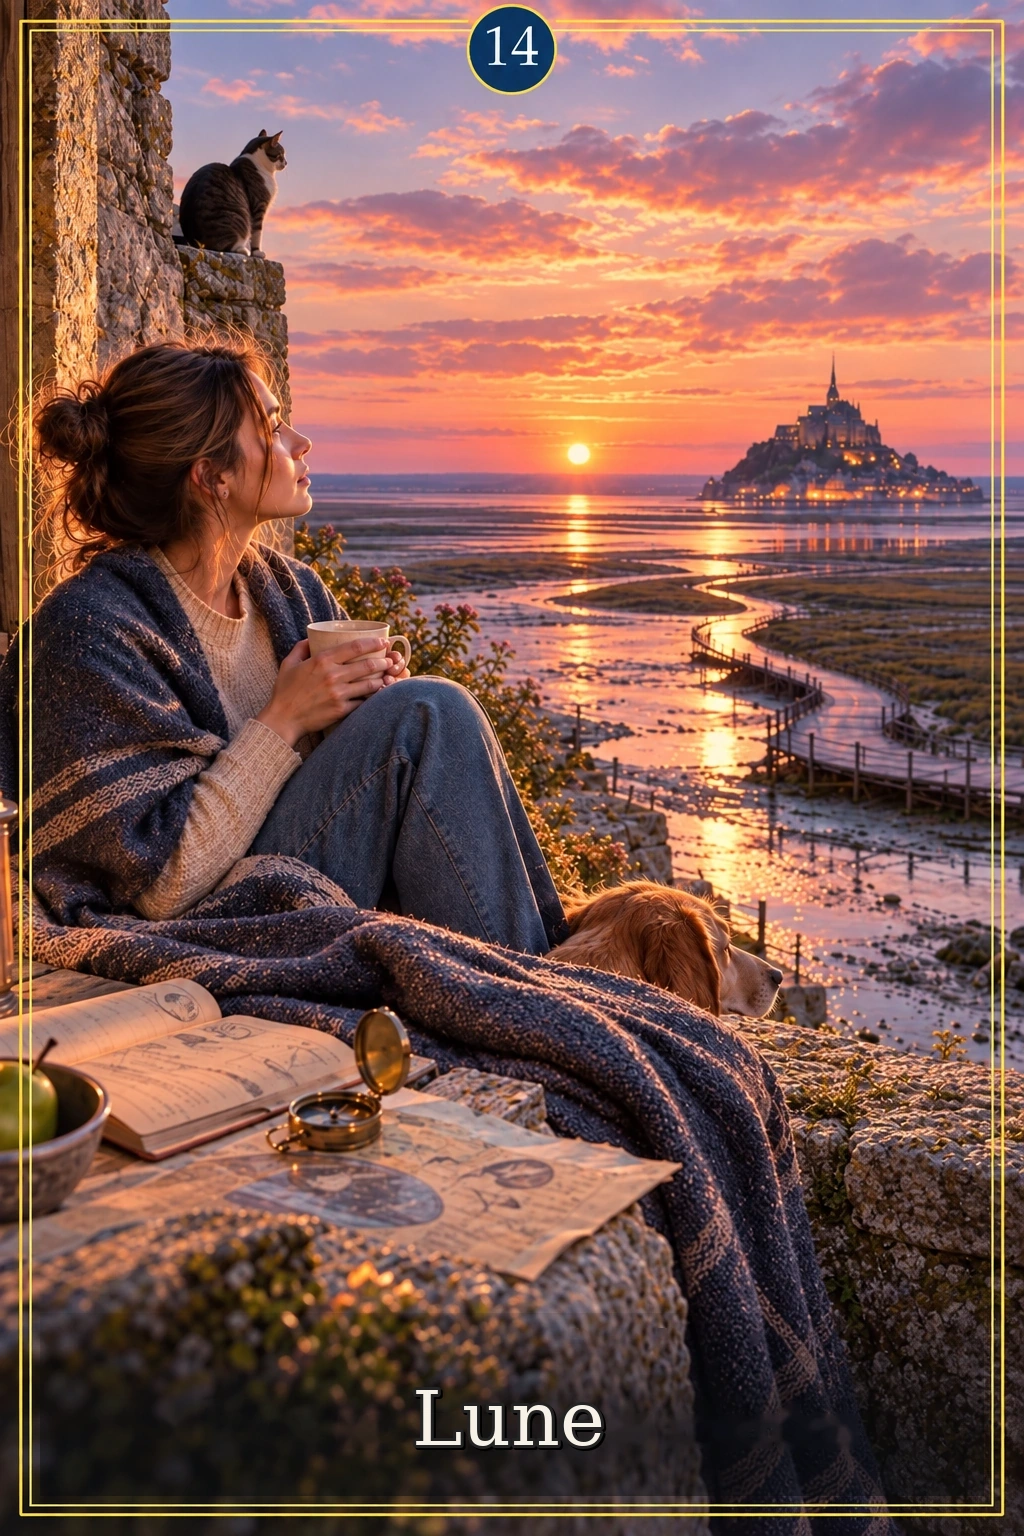
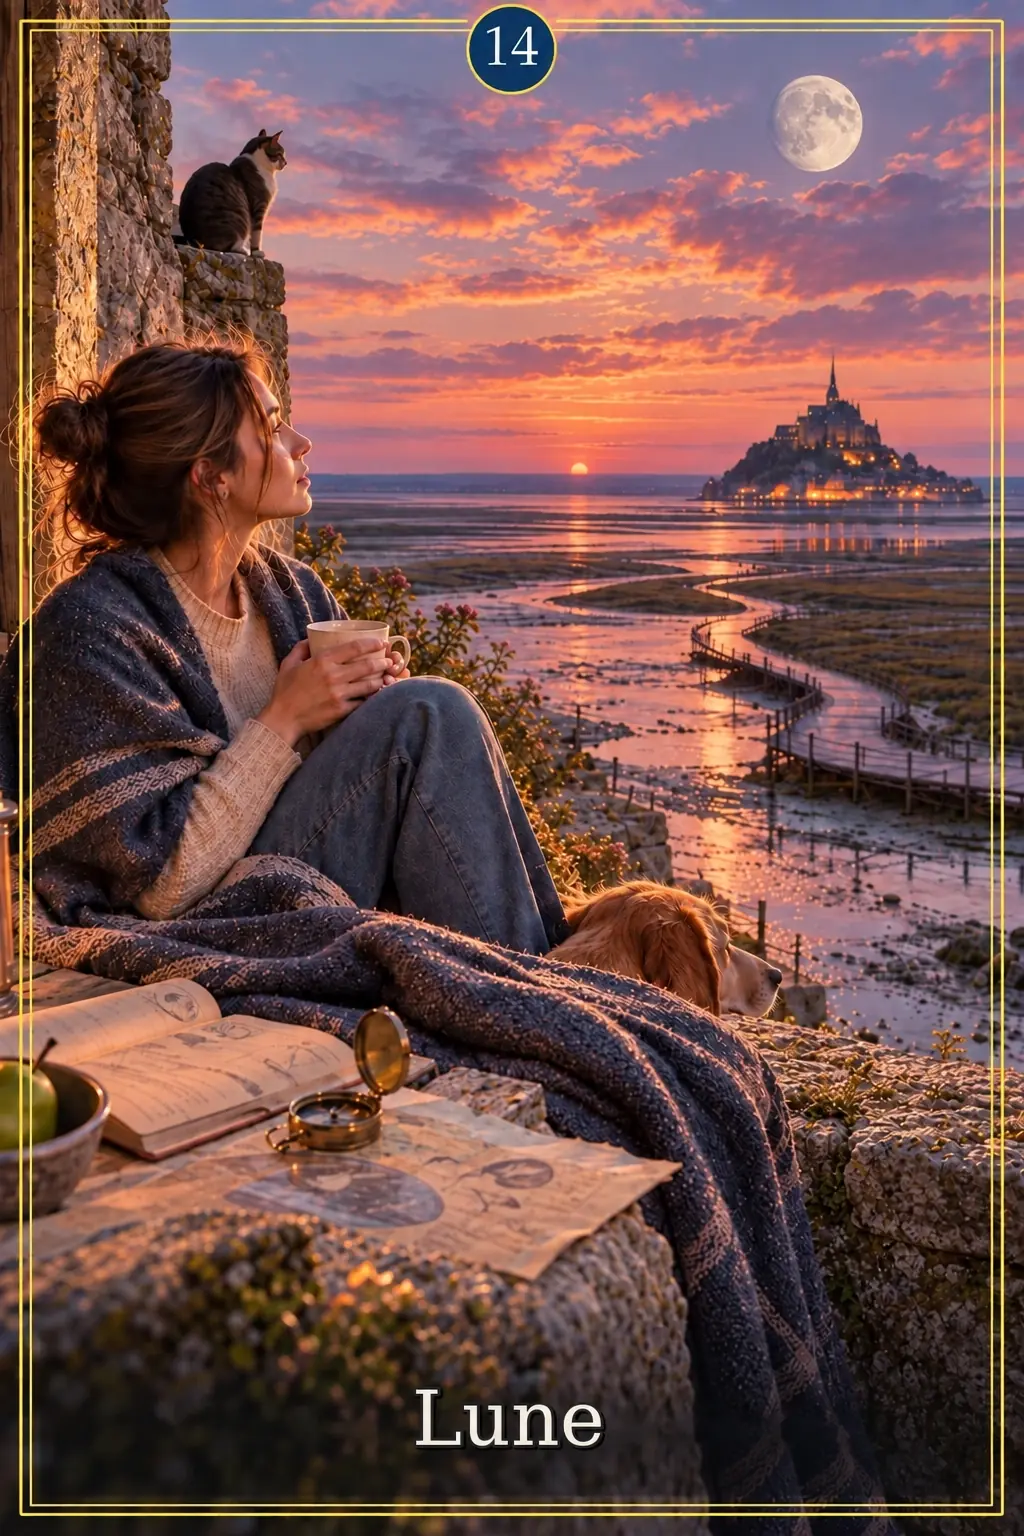
Corriger la carte 14 Lune et actualiser le cache Android

diff --git a/service-worker.js b/service-worker.js
@@ -1,6 +1,6 @@
-const APP_VERSION='2026.09.14-27';
-const CACHE_NAME='cristariva-modele-a-v27-20260914-definition-par-domaine';
-const SHELL=['./','./index.html','./manifest.webmanifest','./manifest-en.webmanifest','./icon-192.png','./icon-512.png','./interpretation-engine-v2.js','./natal-influences-v3.1.js','./period-overview-v3.2.js','./integrated-period-reading-v3.3.js','./natal-profile-v3.4.js','./synthesis-cleanup-v3.5.2.js','./story-conclusion-v3.6.js','./validated-card-titles-v3.6.3.js','./cards/024.webp','./cards/109.webp'];
+const APP_VERSION='2026.09.14-28';
+const CACHE_NAME='cristariva-modele-a-v28-20260914-carte-014-lune';
+const SHELL=['./','./index.html','./manifest.webmanifest','./manifest-en.webmanifest','./icon-192.png','./icon-512.png','./interpretation-engine-v2.js','./natal-influences-v3.1.js','./period-overview-v3.2.js','./integrated-period-reading-v3.3.js','./natal-profile-v3.4.js','./synthesis-cleanup-v3.5.2.js','./story-conclusion-v3.6.js','./validated-card-titles-v3.6.3.js','./cards/014.webp','./cards/024.webp','./cards/109.webp'];
 const ENGINE_TAG='<script src="./interpretation-engine-v2.js?v=3.0"></script><script src="./natal-influences-v3.1.js?v=3.1"></script><script src="./period-overview-v3.2.js?v=3.2"></script><script src="./integrated-period-reading-v3.3.js?v=3.5.1"></script><script src="./natal-profile-v3.4.js?v=3.4"></script><script src="./synthesis-cleanup-v3.5.2.js?v=3.6.2"></script><script src="./story-conclusion-v3.6.js?v=3.6.1"></script><script src="./validated-card-titles-v3.6.3.js?v=3.6.3"></script>';
 
 async function pageWithAstroEngine(response){
